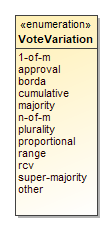
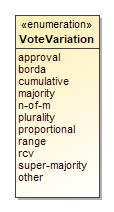
sync with werb review spec

Changed region(s): [[0.1071, 0.0566, 0.9107, 0.9623]]

diff --git a/Election_Results_Reporting_UML_documentation.md b/Election_Results_Reporting_UML_documentation.md
@@ -127,7 +127,7 @@ Name | Value
 
 ![Image of CountItemType](Election_Results_Reporting_UML_documentation_files/_17_0_2_4_78e0236_1389798977982_781011_5347.png)
 
-Enumeration for the items that are counted during the course of an election and for which the status of the counts are of interest. Used in the [Counts](#_17_0_2_4_78e0236_1389367291663_284973_2835) and [CountStatus](#_17_0_2_4_f71035d_1430412663878_61362_2269) classes.
+Enumeration for the items that are counted during the course of an election and for which the status of the counts is of interest. Used in the [Counts](#_17_0_2_4_78e0236_1389367291663_284973_2835) and [CountStatus](#_17_0_2_4_f71035d_1430412663878_61362_2269) classes.
 
 Name | Value
 ---- | -----
@@ -199,7 +199,7 @@ Name | Value
 
 ![Image of GeoSpatialFormat](Election_Results_Reporting_UML_documentation_files/_17_0_2_4_f71035d_1425325534469_261190_2545.png)
 
-Enumeration for geospatial vector data formats used in geographic information system (GIS) software, used in the [SpatialExtent](#_17_0_2_4_f71035d_1409080246279_778720_2209) class.
+Enumeration for geospatial vector data formats used in Geographic Information System (GIS) software, used in the [SpatialExtent](#_17_0_2_4_f71035d_1409080246279_778720_2209) class.
 
 Name | Value
 ---- | -----
@@ -307,7 +307,6 @@ Enumeration for contest decision algorithm or rules in the [Contest](#_17_0_2_4_
 
 Name | Value
 ---- | -----
-`1-of-m`|For 1 of M voting.
 `approval`|When voter can select as many candidates as desired in a contest up to a maximum number.
 `borda`|For the Borda count voting.
 `cumulative`|When voter can allocate more than one vote to a given candidate.
@@ -350,7 +349,7 @@ Attribute | Multiplicity | Type | Attribute Description
 
 ![Image of BallotCounts](Election_Results_Reporting_UML_documentation_files/_17_0_2_4_78e0236_1397156576165_50958_2462.png)
 
-Used for identifying various ballot counts.
+Used for identifying various ballot counts. It inherits the attributes of [Counts](#_17_0_2_4_78e0236_1389367291663_284973_2835).
 
 Attribute | Multiplicity | Type | Attribute Description
 --------- | ------------ | ---- | ---------------------
@@ -396,12 +395,8 @@ Attribute | Multiplicity | Type | Attribute Description
 ![Image of BallotStyle](Election_Results_Reporting_UML_documentation_files/_17_0_2_4_78e0236_1389799207465_976765_6435.png)
 
 For defining a ballot style composed of ordered content (i.e. Headers or Contests) and their contest selections, and associating the ballot style with a political party, a reference to an image of the ballot, and a reference to a precinct or other geopolitical unit that the ballot is unique to. [Election](#_17_0_2_4_f71035d_1426101822599_430942_2209) includes BallotStyle.
-
 BallotStyle references [OrderedContent](#_18_5_3_43701b0_1527684342715_643544_6146) to include content that appears on that ballot style. To preserve any rotation associated with the ballot, it is expected that the generating application will list the occurrences of [OrderedContest](#_17_0_3_43401a7_1394476416139_808596_3142) in the order as on the ballot for the associated geopolitical unit.
-
 BallotStyle references one or more [GpUnit](#_17_0_2_4_78e0236_1389366233346_42391_2380) instances defined for the associated precincts or split precincts. If the ballot style is associated with multiple precincts (or other geographies), multiple references to the precinct [GpUnit](#_17_0_2_4_78e0236_1389366233346_42391_2380) instances can be included.
-
-When including [ExternalIdentifier](#_17_0_2_4_f71035d_1430405712653_451634_2410), if the type is not listed in enumeration [IdentifierType](#_17_0_2_4_f71035d_1425061188508_163854_2613), use other and include the type (that is not listed in the enumeration) in [OtherType](#_17_0_2_4_f71035d_1430405732252_109247_2429).
 
 Attribute | Multiplicity | Type | Attribute Description
 --------- | ------------ | ---- | ---------------------
@@ -582,7 +577,7 @@ Attribute | Multiplicity | Type | Attribute Description
 
 ![Image of Counts](Election_Results_Reporting_UML_documentation_files/_17_0_2_4_78e0236_1389798977982_267901_5355.png)
 
-class/element for reporting on contest vote counts. Contains attributes to categorize the counts according to voting classification (e.g., election day, early voting, etc.) and type of device on which the votes were cast(e.g., DRE, accessible device, etc.)
+Used for reporting on contest vote counts. Contains attributes to categorize the counts according to voting classification (e.g., election day, early voting, etc.) and type of device on which the votes were cast (e.g., DRE, accessible device, etc.).
 
 Attribute | Multiplicity | Type | Attribute Description
 --------- | ------------ | ---- | ---------------------
@@ -613,11 +608,11 @@ Attribute | Multiplicity | Type | Attribute Description
 
 ![Image of DateTimeWithZone](Election_Results_Reporting_UML_documentation_files/_18_0_2_6340208_1519999692425_740254_4577.png)
 
-Restricts dateTime to require inclusion of timezone information and excludes fractional seconds.
+Restricts dateTime to require inclusion of time zone information and excludes fractional seconds.
 
 Attribute | Multiplicity | Type | Attribute Description
 --------- | ------------ | ---- | ---------------------
-<a name="_18_0_2_6340208_1519999795210_981371_4601"></a>`pattern`||`string`|Pattern used for indicating the date, time and the accompanying timezone.
+<a name="_18_0_2_6340208_1519999795210_981371_4601"></a>`pattern`||`string`|Pattern used for indicating the date, time and the accompanying time zone.
 
 
 ### <a name="_18_0_2_6340208_1425911626288_420556_4530"></a>*The **DeviceClass** Class*
@@ -631,7 +626,7 @@ Attribute | Multiplicity | Type | Attribute Description
 <a name="_17_0_2_4_f71035d_1401286171326_648907_2273"></a>`Manufacturer`|0..1|`String`|Manufacturer of the device.
 <a name="_17_0_2_4_f71035d_1401286117587_806540_2269"></a>`Model`|0..1|`String`|Manufacturer’s device model, used to filter on, e.g., a specific model of DRE or other device type.
 <a name="_18_0_2_6340208_1497894619958_710016_4605"></a>`OtherType`|0..1|`String`|Used when Type is other.
-<a name="_17_0_2_4_f71035d_1401285959630_42686_2265"></a>`Type`|0..1|`DeviceType`|Enumerated type of device, e.g., "DRE", "opscan-precinct", etc.
+<a name="_17_0_2_4_f71035d_1401285959630_42686_2265"></a>`Type`|0..1|`DeviceType`|Enumerated type of device, e.g., "dre", "opscan-precinct", etc.
 
 
 ### <a name="_17_0_2_4_f71035d_1426101822599_430942_2209"></a>*The **Election** Class*
@@ -1023,7 +1018,7 @@ This class optionally references [Person](#_17_0_5_1_43401a7_1400623980732_10090
 
 The [Type](#_17_0_2_4_78e0236_1389713376966_77071_2393) attribute uses the [ReportingUnitType](#_17_0_2_4_f71035d_1431607637366_785815_2242) enumeration to specify the type of geopolitical geography being defined. [ReportingUnitType](#_17_0_2_4_f71035d_1431607637366_785815_2242) contains the most common types of geographies, e.g., state, county, precinct, and so forth. If the reporting unit type is not listed in enumeration [ReportingUnitType](#_17_0_2_4_f71035d_1431607637366_785815_2242), use other and include the reporting unit type (that is not listed in the enumeration) in [OtherType](#_17_0_2_4_f71035d_1426007519161_685921_2510).
 
-The [IsDistricted](#_17_0_2_4_f71035d_1441207733430_83517_2240) boolean can be used in a number of ways. It is not strictly necessary, as it is possible to identify districts by their [Type](#_17_0_2_4_78e0236_1389713376966_77071_2393) attribute or by examining the [Contest](#_17_0_2_4_78e0236_1389366251994_876831_2400) instance’s [ElectoralDistrict](#_17_0_2_4_78e0236_1389366667508_703141_2753) reference, which links to the electoral district associated with the contest. However, if a district is defined but is not linked from a contest, or if the type of district is not listed in the [ReportingUnitType](#_17_0_2_4_f71035d_1431607637366_785815_2242) enumeration and therefore [OtherType](#_17_0_2_4_f71035d_1426007519161_685921_2510) is used, then [IsDistricted](#_17_0_2_4_f71035d_1441207733430_83517_2240) is necessary to identify the [GpUnit](#_17_0_2_4_78e0236_1389366233346_42391_2380) as a district. The [IsDistricted](#_17_0_2_4_f71035d_1441207733430_83517_2240) boolean can also be used to signify that a [GpUnit](#_17_0_2_4_78e0236_1389366233346_42391_2380) defined as a jurisdiction, e.g., a county, is also used as a district for, e.g., county-wide contests.
+The [IsDistricted](#_17_0_2_4_f71035d_1441207733430_83517_2240) boolean can be used in a number of ways. It is not strictly necessary, as it is possible to identify districts by their [Type](#_17_0_2_4_78e0236_1389713376966_77071_2393) attribute or by examining the [Contest](#_17_0_2_4_78e0236_1389366251994_876831_2400) instance’s [ElectionDistrict](#_17_0_2_4_78e0236_1389366667508_703141_2753) reference, which links to the election district associated with the contest. However, if a district is defined but is not linked from a contest, or if the type of district is not listed in the [ReportingUnitType](#_17_0_2_4_f71035d_1431607637366_785815_2242) enumeration and therefore [OtherType](#_17_0_2_4_f71035d_1426007519161_685921_2510) is used, then [IsDistricted](#_17_0_2_4_f71035d_1441207733430_83517_2240) is necessary to identify the [GpUnit](#_17_0_2_4_78e0236_1389366233346_42391_2380) as a district. The [IsDistricted](#_17_0_2_4_f71035d_1441207733430_83517_2240) boolean can also be used to signify that a [GpUnit](#_17_0_2_4_78e0236_1389366233346_42391_2380) defined as a jurisdiction, e.g., a county, is also used as a district for, e.g., county-wide contests.
 
 Attribute | Multiplicity | Type | Attribute Description
 --------- | ------------ | ---- | ---------------------
